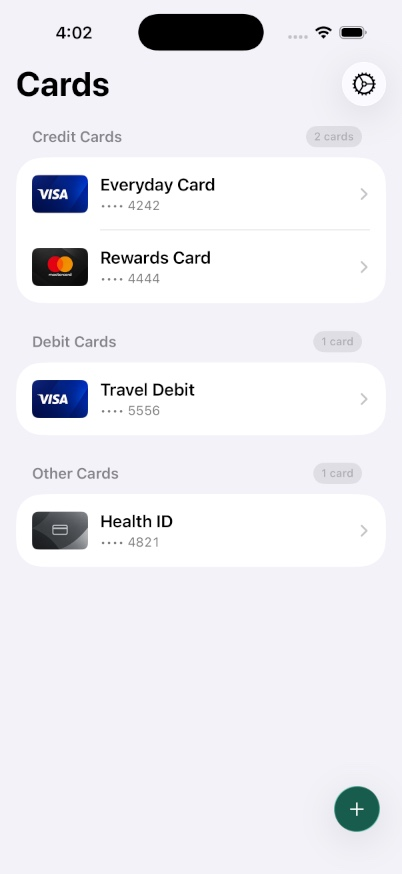
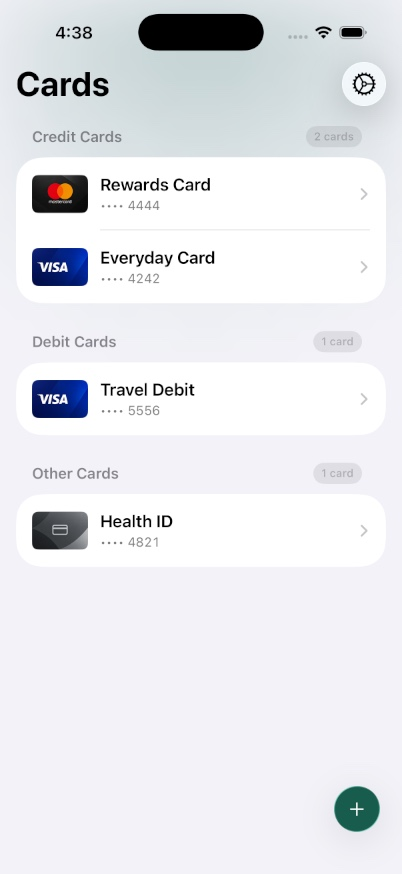
Add an accent glow to the card list

Changed region(s): [[0.0896, 0.0, 0.9254, 0.2471], [0.0597, 0.278, 0.5373, 0.3398], [0.0597, 0.1854, 0.2388, 0.2471]]

diff --git a/cards/Home/HomeView.swift b/cards/Home/HomeView.swift
@@ -15,6 +15,7 @@ struct HomeView: View {
 	@EnvironmentObject private var authenticationSession: AuthenticationSession
 	@Environment(\.analytics) private var analytics
 	@Environment(\.sdk) private var sdk
+	@Environment(\.accessibilityReduceTransparency) private var reduceTransparency
 	@State private var cardPendingDeletion: CardData?
 	#if !os(macOS)
 	@State private var isShowingSettings = false
@@ -30,53 +31,58 @@ struct HomeView: View {
 
 	var body: some View {
 		NavigationSplitView {
-			List(selection: $model.selectedCard) {
-				ForEach(CardType.allCases) { type in
-					let cards = model.cardDataStore.cardsByType[type] ?? []
-					Section(header: sectionHeader(for: type, count: cards.count)) {
-						ForEach(cards, id: \.id) { card in
-							getRowforCards(with: card)
-								.swipeActions(edge: .trailing, allowsFullSwipe: false) {
-									Button(role: .destructive) {
-										cardPendingDeletion = card
-									} label: {
-										Label("Delete", systemImage: "trash")
+			ZStack(alignment: .top) {
+				homeBackground
+
+				List(selection: $model.selectedCard) {
+					ForEach(CardType.allCases) { type in
+						let cards = model.cardDataStore.cardsByType[type] ?? []
+						Section(header: sectionHeader(for: type, count: cards.count)) {
+							ForEach(cards, id: \.id) { card in
+								getRowforCards(with: card)
+									.swipeActions(edge: .trailing, allowsFullSwipe: false) {
+										Button(role: .destructive) {
+											cardPendingDeletion = card
+										} label: {
+											Label("Delete", systemImage: "trash")
+										}
+										Button {
+											archiveCard(card)
+										} label: {
+											Label("Archive", systemImage: "archivebox")
+										}
+										.tint(.orange)
 									}
-									Button {
-										archiveCard(card)
-									} label: {
-										Label("Archive", systemImage: "archivebox")
+									.contextMenu {
+										Button {
+											archiveCard(card)
+										} label: {
+											Label("Archive", systemImage: "archivebox")
+										}
+										Button(role: .destructive) {
+											cardPendingDeletion = card
+										} label: {
+											Label("Delete", systemImage: "trash")
+										}
 									}
-									.tint(.orange)
-								}
-								.contextMenu {
-									Button {
-										archiveCard(card)
-									} label: {
-										Label("Archive", systemImage: "archivebox")
-									}
-									Button(role: .destructive) {
-										cardPendingDeletion = card
-									} label: {
-										Label("Delete", systemImage: "trash")
-									}
-								}
+							}
 						}
 					}
-				}
-				// Archived Cards Link
-				if !model.cardDataStore.archivedCards.isEmpty {
-					Section {
-						NavigationLink {
-							ArchivedCardsView(model: model)
-						} label: {
-							HStack {
-								Image(systemName: "archivebox")
-								Text("View Archived Cards (\(model.cardDataStore.archivedCards.count))")
+					// Archived Cards Link
+					if !model.cardDataStore.archivedCards.isEmpty {
+						Section {
+							NavigationLink {
+								ArchivedCardsView(model: model)
+							} label: {
+								HStack {
+									Image(systemName: "archivebox")
+									Text("View Archived Cards (\(model.cardDataStore.archivedCards.count))")
+								}
 							}
 						}
 					}
 				}
+				.scrollContentBackground(.hidden)
 			}
 			.navigationTitle("Cards")
 			.toolbarTitleDisplayMode(.inlineLarge)
@@ -207,6 +213,34 @@ struct HomeView: View {
 		}
 		#endif
 		.sdkScreen(AppAnalyticsScreen.home)
+	}
+
+	private var homeBackground: some View {
+		ZStack(alignment: .top) {
+			groupedBackground
+			RadialGradient(
+				colors: [
+					Color.accentColor.opacity(reduceTransparency ? 0.09 : 0.27),
+					Color.accentColor.opacity(reduceTransparency ? 0.04 : 0.11),
+					.clear
+				],
+				center: .top,
+				startRadius: 0,
+				endRadius: 340
+			)
+			.frame(height: 340)
+			.blur(radius: reduceTransparency ? 0 : 34)
+			.allowsHitTesting(false)
+		}
+		.ignoresSafeArea()
+	}
+
+	private var groupedBackground: Color {
+		#if os(macOS)
+		Color(nsColor: .windowBackgroundColor)
+		#else
+		Color(uiColor: .systemGroupedBackground)
+		#endif
 	}
 
 	private var addCardButton: some View {
